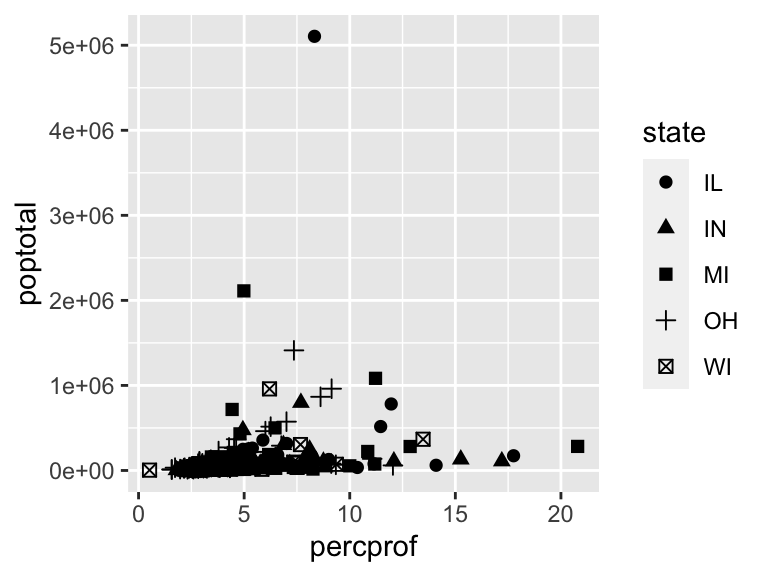
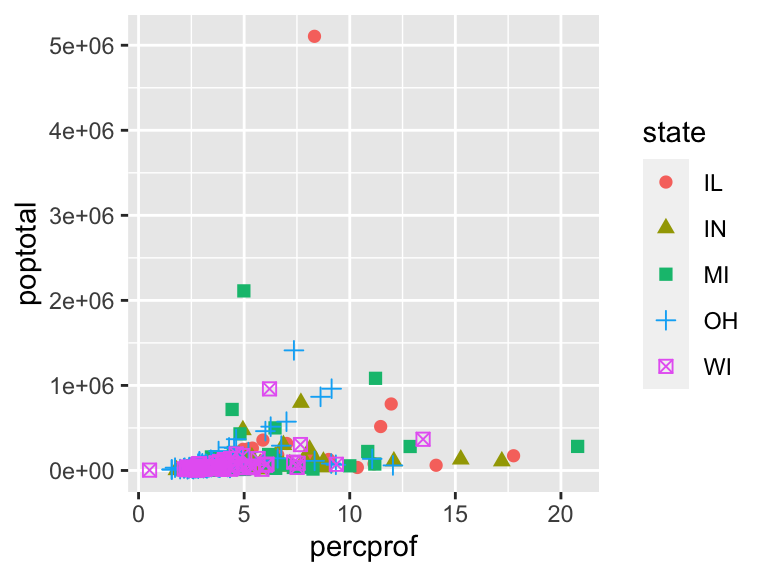
Fix type in scale colour
Also, update README examples.

diff --git a/README.md b/README.md
@@ -15,7 +15,7 @@ untested.
 library(ggplot2)
 library(ggprism)
 p <- ggplot(midwest, aes(x=percprof, y=poptotal)) +
-  geom_point(aes(shape = state, fill = state), size = 2)
+  geom_point(aes(shape = state, fill = state, colour = state), size = 2)
 p
 ```
 
@@ -42,17 +42,30 @@ p
 ### `scale_fill_prism`
 
 ``` r
-p <- p + scale_fill_prism("pearl")
+p <- p + scale_fill_prism("prism_light")
 p
 ```
 
 <img src="man/figures/ex-fill-1.png" width="384" />
 
+### `scale_colour_prism`
+
+``` r
+# also can use scale_color_prism
+p <- p + scale_colour_prism("prism_light") 
+p
+```
+
+<img src="man/figures/ex-colour-1.png" width="384" />
+
 ### `guide_prism_minor`
 
 ``` r
 p <- p + scale_x_continuous(minor_breaks = seq(0, 20, 1), 
-                            guide = "prism_minor")
+                            guide = "prism_minor") + 
+  scale_y_continuous(minor_breaks = seq(0, 5e6, 0.5e6), 
+                     guide = "prism_minor") + 
+  coord_cartesian(xlim = c(0, 20))
 p
 ```
 
